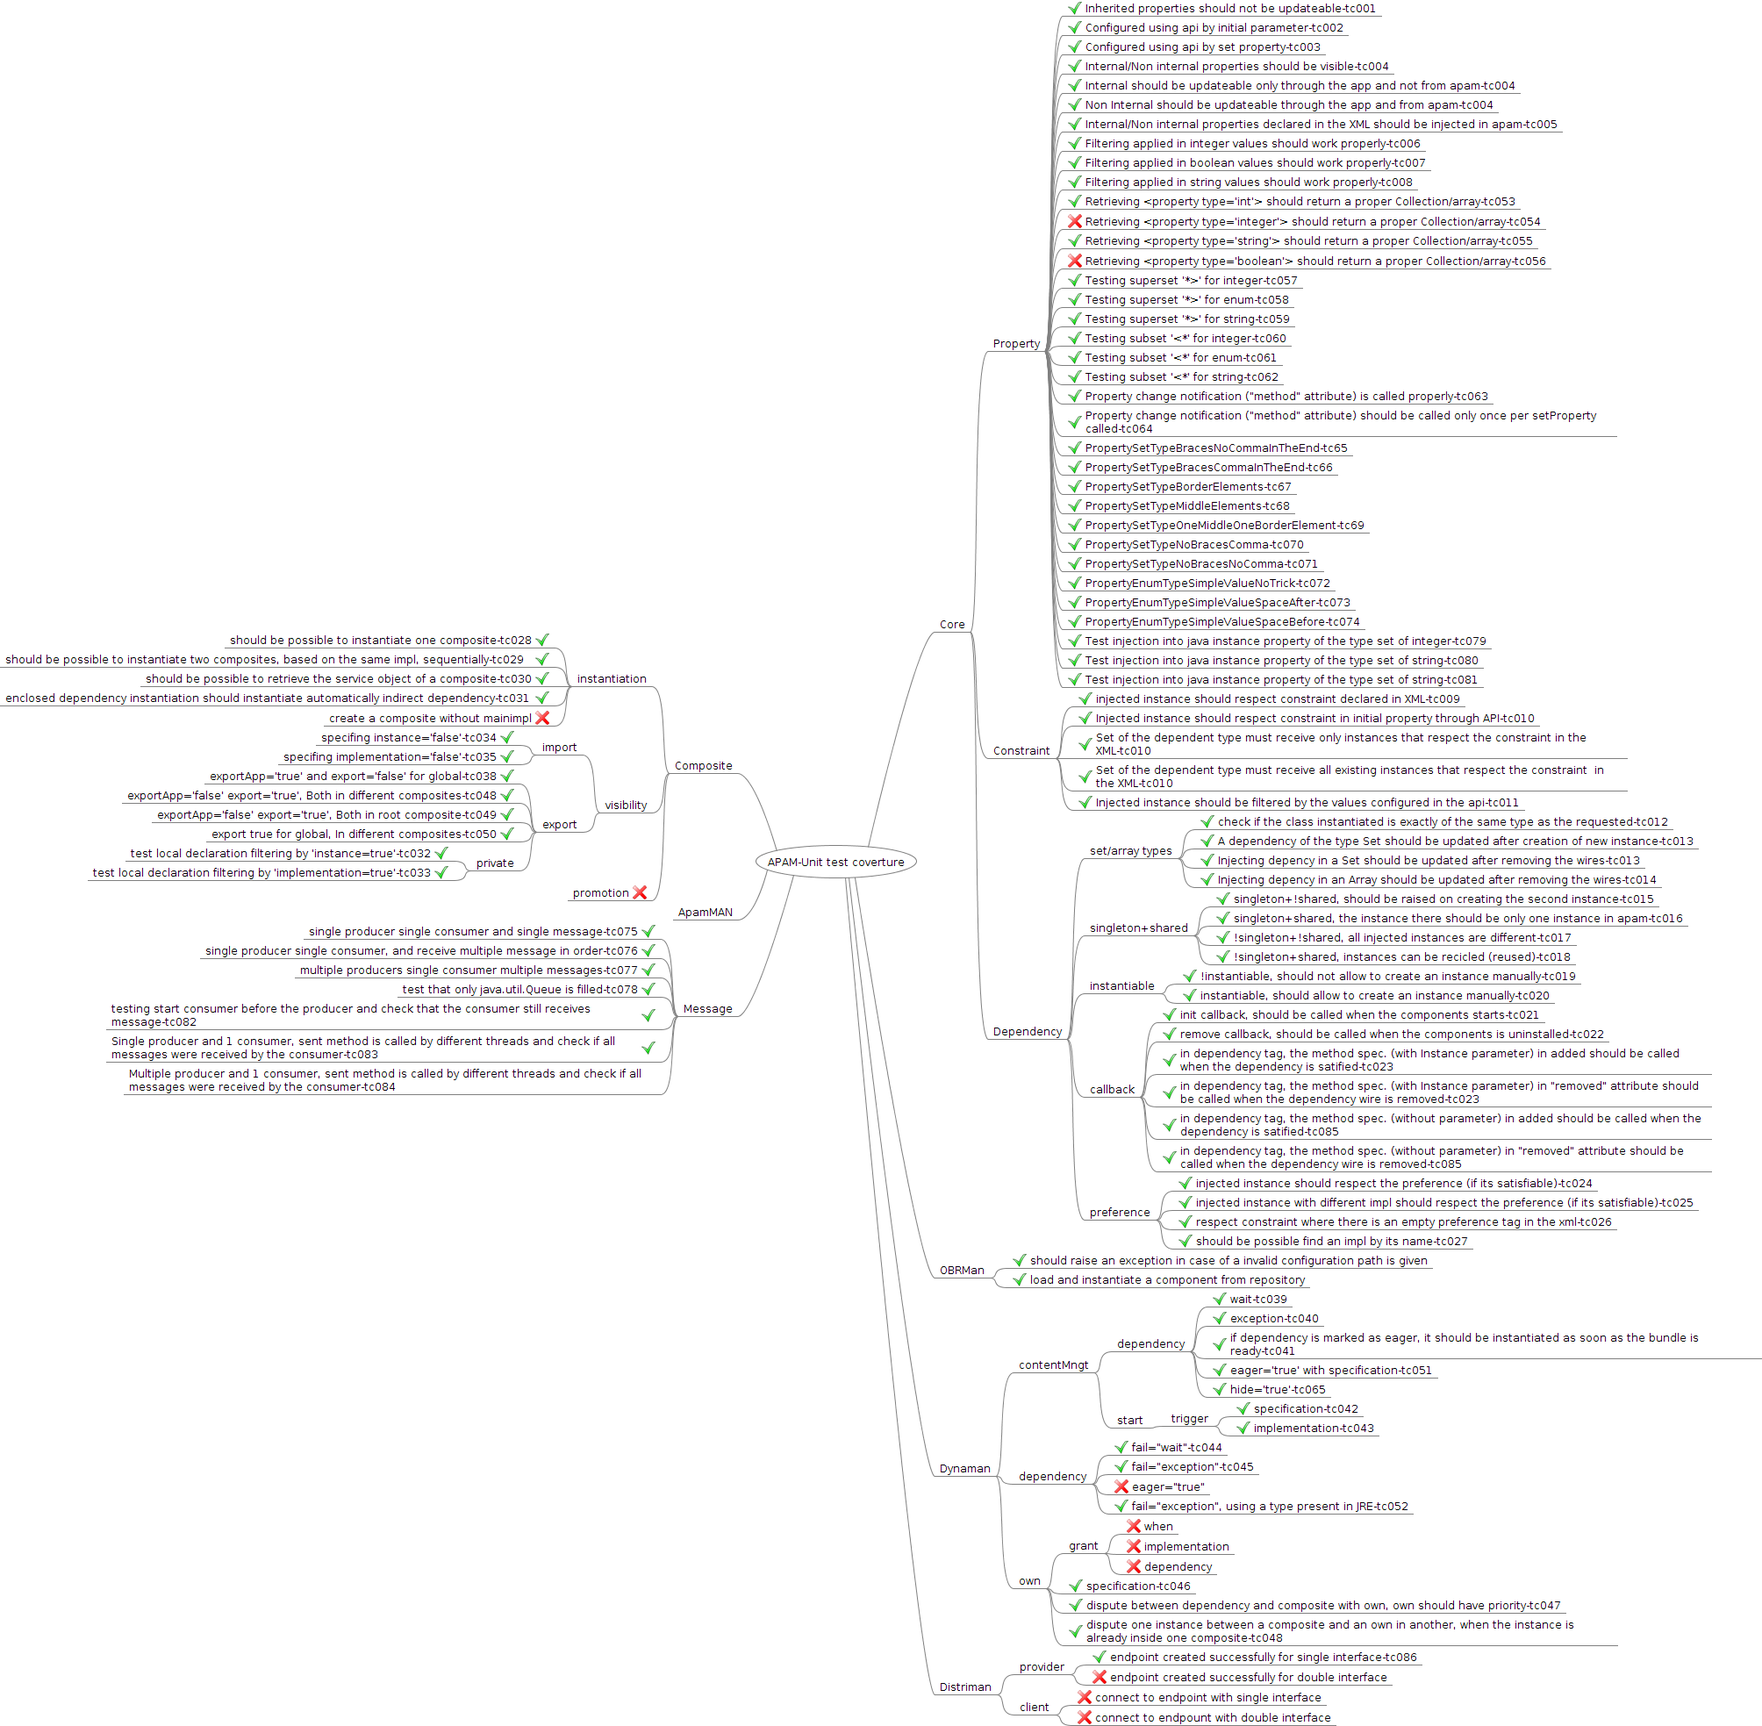
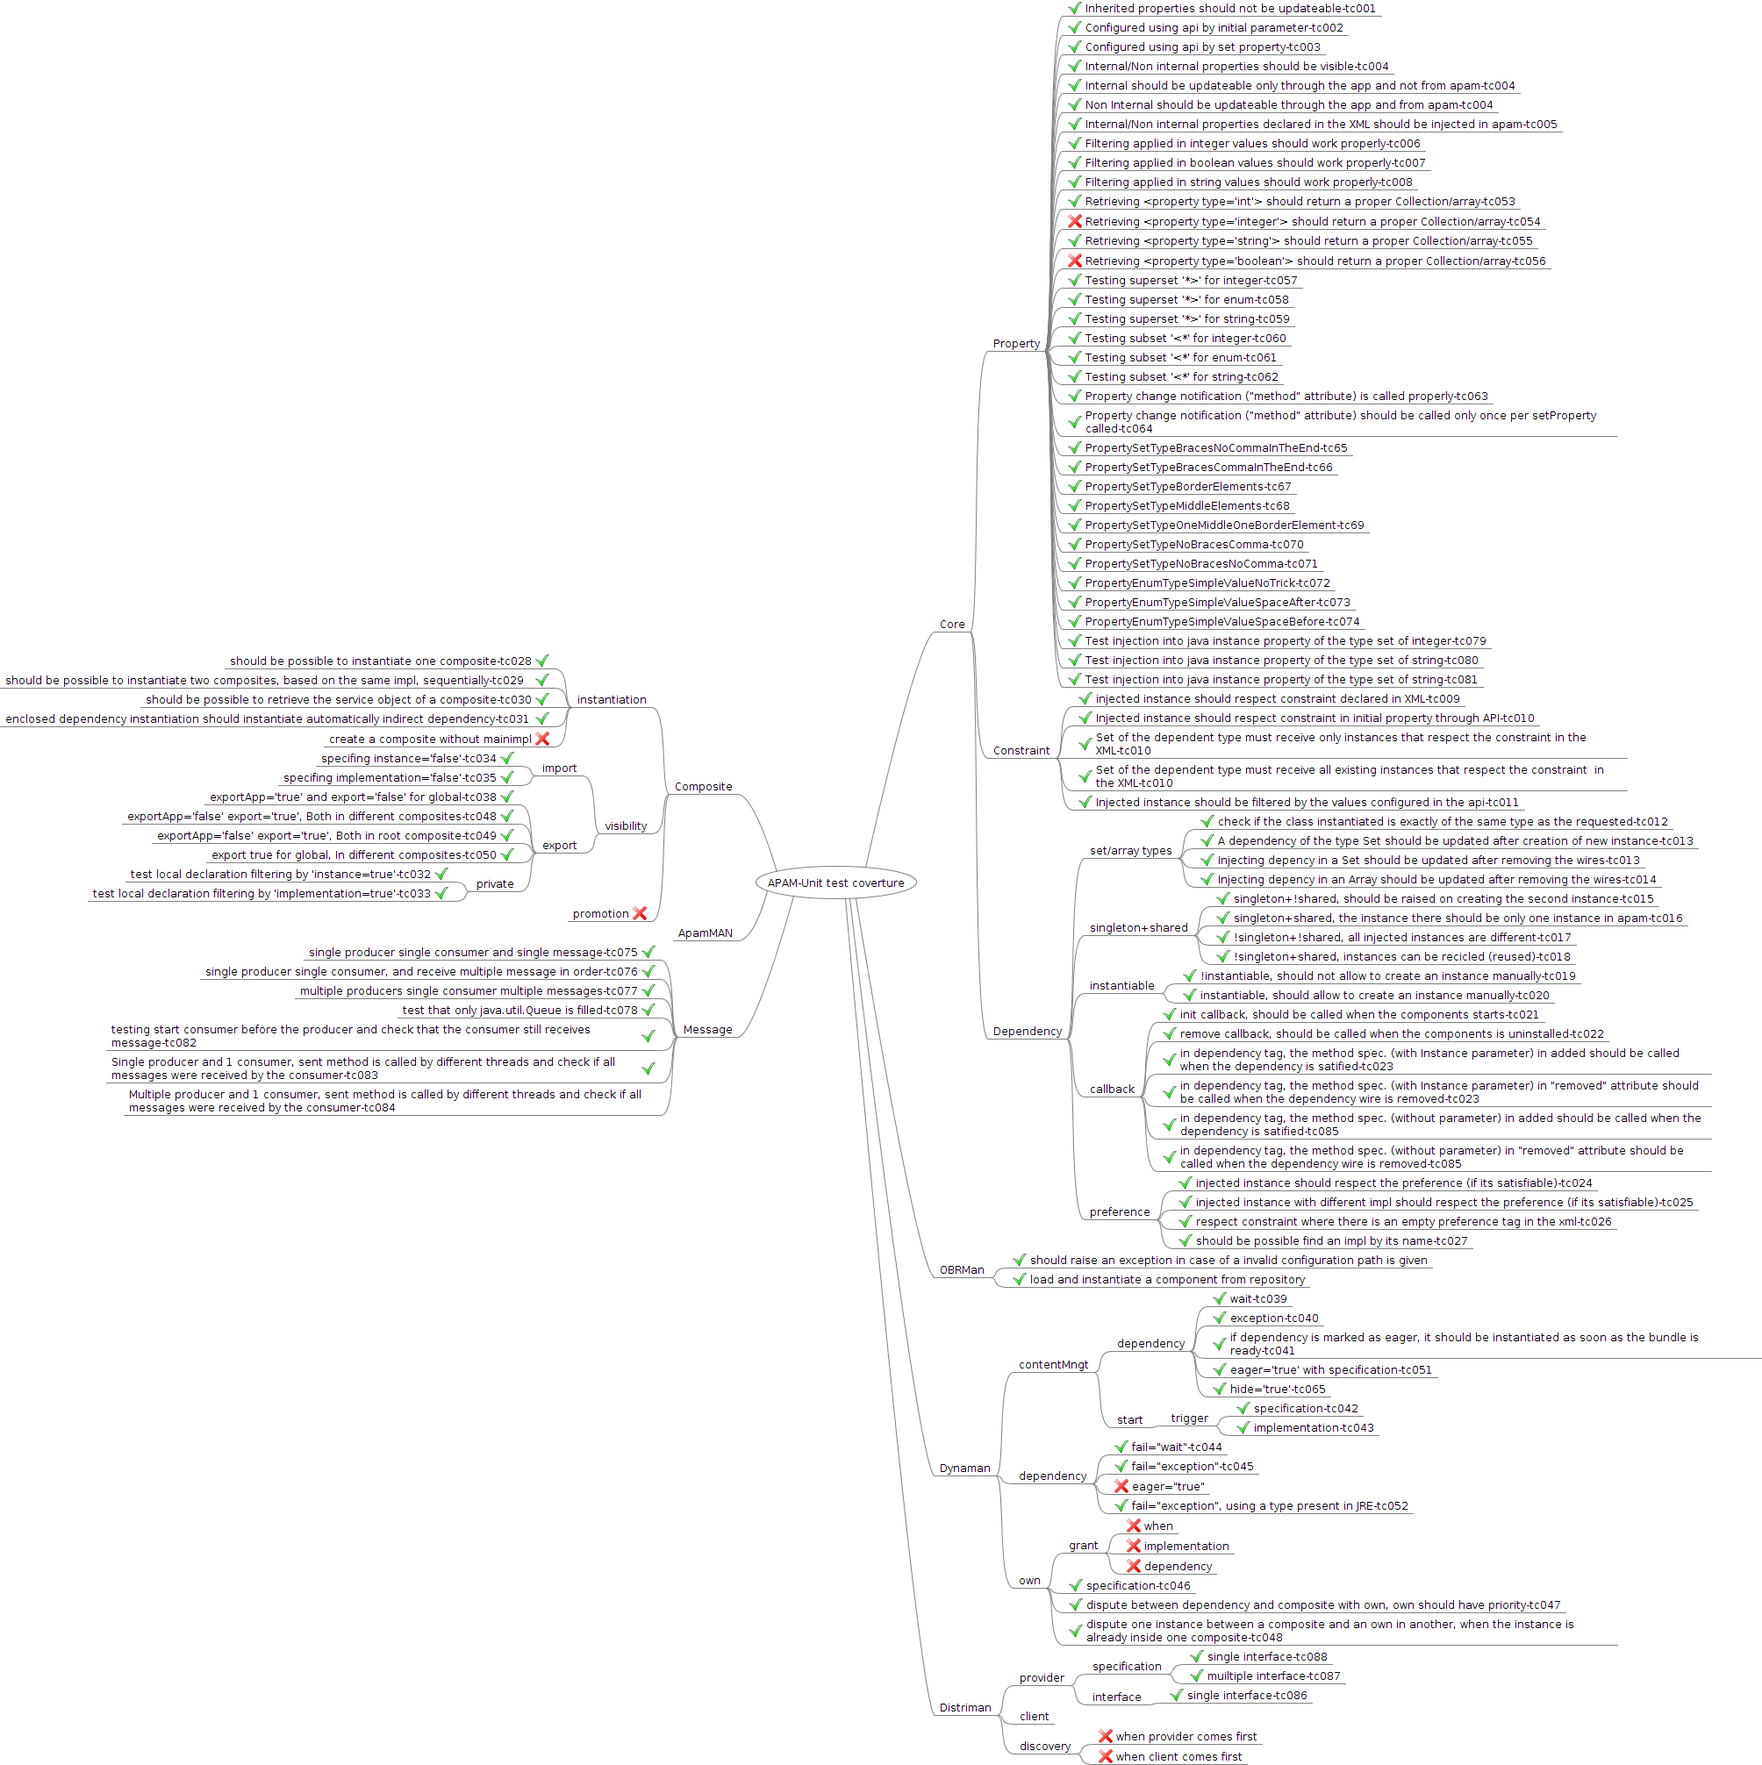
adding tc087,tc088 for distriman

diff --git a/tests/pax-test/src/test/java/fr/imag/adele/apam/test/testcases/DistriManTest.java b/tests/pax-test/src/test/java/fr/imag/adele/apam/test/testcases/DistriManTest.java
@@ -14,12 +14,10 @@
  */
 package fr.imag.adele.apam.test.testcases;
 
-//import static org.ops4j.pax.exam.CoreOptions.bundle;
 import static org.ops4j.pax.exam.CoreOptions.mavenBundle;
 
 import java.io.IOException;
 import java.net.MalformedURLException;
-import java.net.URLDecoder;
 import java.util.HashMap;
 import java.util.List;
 import java.util.Map;
@@ -27,9 +25,6 @@ import java.util.Map;
 import junit.framework.Assert;
 
 import org.apache.cxf.frontend.ClientProxyFactoryBean;
-import org.codehaus.jackson.JsonNode;
-import org.codehaus.jackson.map.ObjectMapper;
-import org.codehaus.jackson.type.TypeReference;
 import org.junit.Test;
 import org.junit.runner.RunWith;
 import org.ops4j.pax.exam.Option;
@@ -56,7 +51,7 @@ public class DistriManTest extends ExtensionAbstract {
 	}
 
 	@Test
-	public void ProviderSingleInterface_tc086() throws MalformedURLException, IOException {
+	public void ProviderDependencyInterface_tc086() throws MalformedURLException, IOException {
 		
 		Implementation p2Impl = CST.apamResolver.findImplByName(null,
 				"P2-singleinterface");
@@ -65,28 +60,22 @@ public class DistriManTest extends ExtensionAbstract {
 		
 		String url="http://127.0.0.1:8080/apam/machine";
 		
-		final String jsonPayload = DistrimanUtil.httpRequestDependency("p2", "fr.imag.adele.apam.pax.distriman.test.iface.P2Spec", "P1", false, url);
+		final String jsonPayload = DistrimanUtil.httpRequestDependency("p2", "itf","fr.imag.adele.apam.pax.distriman.test.iface.P2Spec", "P2-singleinterface", false, url);
 		
 		Map<String, String> parameters=new HashMap<String, String>(){{put("content", jsonPayload);}};
 		
-		String buffer=DistrimanUtil.curl(parameters, url);
-		
-		String response=URLDecoder.decode(buffer.toString(),"UTF-8");
-		
+		String response=DistrimanUtil.curl(parameters, url);
+				
 		System.err.println(response);
 		
-		ObjectMapper om=new ObjectMapper();
-		
-		JsonNode node=om.readValue(response, JsonNode.class);
-		
-		Map<String,String> endpoints=om.convertValue(node.get("endpoint_entry"), new TypeReference<Map<String, String>>() {});
+		Map<String,String> endpoints=DistrimanUtil.endpointGet(response);
 		
 		System.out.println("Class\tURL");
 		for(Map.Entry<String, String> entry:endpoints.entrySet()){
 			System.out.println(String.format("%s\t%s", entry.getKey(),entry.getValue()));
 		}
 		
-		Assert.assertTrue("distriman(provider host) did not create an endpoint after requested",endpoints.size()==1);
+		Assert.assertTrue(String.format("distriman(provider host) did not create an endpoint, or not the right number of endpoints. Expected 1 but %s were provided",endpoints.size()),endpoints.size()==1);
 		
 		try{
 		
@@ -101,5 +90,67 @@ public class DistriManTest extends ExtensionAbstract {
 		}
 		
 	}
+	
+	@Test
+	public void ProviderDependencySpecificationMultipleInterface_tc087() throws MalformedURLException, IOException {
+		
+		Implementation p2Impl = CST.apamResolver.findImplByName(null,
+				"P2-singleinterface");
+
+		Instance p2Inst = p2Impl.createInstance(null, null);
+		
+		String url="http://127.0.0.1:8080/apam/machine";
+		
+		final String jsonPayload = DistrimanUtil.httpRequestDependency("p2", "specification","P2-spec-multipleinterface", "P2", false, url);
+		
+		Map<String, String> parameters=new HashMap<String, String>(){{put("content", jsonPayload);}};
+		
+		String response=DistrimanUtil.curl(parameters, url);
+		
+		System.err.println(response);
+		
+		Map<String,String> endpoints=DistrimanUtil.endpointGet(response); 
+		
+		System.err.println("Class\tURL");
+		for(Map.Entry<String, String> entry:endpoints.entrySet()){
+			System.err.println(String.format("%s\t%s", entry.getKey(),entry.getValue()));
+		}
+		
+		Assert.assertTrue(String.format("distriman(provider host) did not create an endpoint, or not the right number of endpoints. Expected 2 but %s were provided",endpoints.size()),endpoints.size()==2);
+		
+		DistrimanUtil.endpointConnect(endpoints);
+		
+	}
+	
+	@Test
+	public void ProviderDependencySpecificationSingleInterface_tc088() throws MalformedURLException, IOException {
+		
+		Implementation p2Impl = CST.apamResolver.findImplByName(null,
+				"P2-singleinterface");
+
+		Instance p2Inst = p2Impl.createInstance(null, null);
+		
+		String url="http://127.0.0.1:8080/apam/machine";
+		
+		final String jsonPayload = DistrimanUtil.httpRequestDependency("p2", "specification","P2-spec-singleinterface", "P2", false, url);
+		
+		Map<String, String> parameters=new HashMap<String, String>(){{put("content", jsonPayload);}};
+		
+		String response=DistrimanUtil.curl(parameters, url);
+		
+		System.err.println(response);
+		
+		Map<String,String> endpoints=DistrimanUtil.endpointGet(response);
+		
+		System.err.println("Class\tURL");
+		for(Map.Entry<String, String> entry:endpoints.entrySet()){
+			System.err.println(String.format("%s\t%s", entry.getKey(),entry.getValue()));
+		}
+		
+		Assert.assertTrue(String.format("distriman(provider host) did not create an endpoint, or not the right number of endpoints. Expected 1 but %s were provided",endpoints.size()),endpoints.size()==1);
+		
+		DistrimanUtil.endpointConnect(endpoints);
+		
+	}	
 
 }

diff --git a/runtime/managers/distriman/src/main/java/fr/imag/adele/apam/distriman/dto/RemoteDependency.java b/runtime/managers/distriman/src/main/java/fr/imag/adele/apam/distriman/dto/RemoteDependency.java
@@ -24,6 +24,7 @@ import fr.imag.adele.apam.declarations.InstanceReference;
 import fr.imag.adele.apam.declarations.InterfaceReference;
 import fr.imag.adele.apam.declarations.MessageReference;
 import fr.imag.adele.apam.declarations.ResolvableReference;
+import fr.imag.adele.apam.declarations.SpecificationReference;
 
 /**
  * The RemoteDependency is a DependencyDeclaration that aims to be resolved by a RemoteMachine.
@@ -48,13 +49,13 @@ public class RemoteDependency extends DependencyDeclaration {
 
     private static final String JSON_COMP_CONSTRAINT = "comp_cons";
     private static final String JSON_COMP_PREF = "comp_pref";
-    private static final String JSON_CLIENT_URL = "client_url";
+    public static final String JSON_CLIENT_URL = "client_url";
     
-    private String client_url;
+    private String clientURL;
 
     public RemoteDependency(ComponentReference<?> component, String id, boolean isMultiple, ResolvableReference resource,String client) {
         super(component, id, isMultiple, resource);
-        this.client_url=client;
+        this.clientURL=client;
     }
 
     /**
@@ -63,7 +64,7 @@ public class RemoteDependency extends DependencyDeclaration {
      */
     public RemoteDependency(DependencyDeclaration dep,String client) {
         super(dep.getComponent(), dep.getIdentifier(), dep.isMultiple(), dep.getTarget());
-        this.client_url=client;
+        this.clientURL=client;
     }
 
     public ObjectNode toJson() {
@@ -82,7 +83,7 @@ public class RemoteDependency extends DependencyDeclaration {
         json.put(JSON_ID,getIdentifier());
         json.put(JSON_IS_MULTIPLE,isMultiple());
         json.put(JSON_COMP_REF_NAME,getComponent().getName());
-        json.put(JSON_CLIENT_URL,client_url);
+        json.put(JSON_CLIENT_URL,clientURL);
         
         ObjectNode json_rr=om.createObjectNode();
         
@@ -135,7 +136,7 @@ public class RemoteDependency extends DependencyDeclaration {
         //Get the ResolvableReference name
         String rr_name = rr_json.get(JSON_RESOLVABLE_REF_NAME).asText();
 
-        String client_url=json.get(JSON_CLIENT_URL).asText();
+        String clientURL=json.get(JSON_CLIENT_URL).asText();
 
         ResolvableReference  rr = null;
         // Create the ResolvableReference according to its type.
@@ -149,6 +150,10 @@ public class RemoteDependency extends DependencyDeclaration {
             case message:
                 rr = new MessageReference(rr_name);
             break;
+            case specification:
+                rr = new SpecificationReference(rr_name);
+                
+            break;
         }
 
         //Get constraints and prefs
@@ -159,7 +164,7 @@ public class RemoteDependency extends DependencyDeclaration {
 //        JSONArray comppref = json.getJSONArray(JSON_COMP_PREF);
 
 
-        RemoteDependency rdep = new  RemoteDependency(compref,id,multiple,rr,client_url);
+        RemoteDependency rdep = new  RemoteDependency(compref,id,multiple,rr,clientURL);
 
         //rdep.getInstanceConstraints().addAll(fromArray(instconst));
         //rdep.getInstancePreferences().addAll(fromArray(instpref));
@@ -169,22 +174,20 @@ public class RemoteDependency extends DependencyDeclaration {
        return rdep;
     }
 
-
-//    private static Collection<String> fromArray(JSONArray array) throws JSONException{
-//        Collection<String> collec = new ArrayList<String>(array.length());
-//        for(int i =0;i<array.length();i++){
-//            collec.add(array.getString(i));
-//        }
-//        return collec;
-//    }
-
     /**
      * ResolvableReference type.
      */
     private enum RRTYPE {
         instance,
         message,
-        itf//interface
+        itf,
+        specification//interface
         //TODO support Spec et implem ?
     }
+
+	public String getClientURL() {
+		return clientURL;
+	}
+    
+    
 }

diff --git a/tests/pax-test/src/test/java/fr/imag/adele/apam/test/support/distriman/DistrimanUtil.java b/tests/pax-test/src/test/java/fr/imag/adele/apam/test/support/distriman/DistrimanUtil.java
@@ -7,12 +7,25 @@ import java.io.PrintWriter;
 import java.net.HttpURLConnection;
 import java.net.MalformedURLException;
 import java.net.URL;
+import java.net.URLDecoder;
 import java.net.URLEncoder;
 import java.util.Map;
 
+import junit.framework.Assert;
+
+import org.apache.cxf.binding.BindingConfiguration;
+import org.apache.cxf.frontend.ClientProxyFactoryBean;
+import org.codehaus.jackson.JsonNode;
+import org.codehaus.jackson.JsonParseException;
+import org.codehaus.jackson.map.JsonMappingException;
+import org.codehaus.jackson.map.ObjectMapper;
+import org.codehaus.jackson.type.TypeReference;
+
+import fr.imag.adele.apam.pax.distriman.test.iface.P2Spec;
+
 public class DistrimanUtil {
 
-	public static String httpRequestDependency(String id, String clazz,
+	public static String httpRequestDependency(String id, String type, String clazz,
 			String variable, boolean isMultiple, String clientUrl) {
 
 		StringBuffer payload = new StringBuffer();
@@ -22,7 +35,7 @@ public class DistrimanUtil {
 		payload.append("{");
 		payload.append(String.format("\"id\":\"%s\",", id));
 		payload.append(String.format(
-				"\"rref\": {\"name\":\"%s\",\"type\":\"itf\"},", clazz));
+				"\"rref\": {\"name\":\"%s\",\"type\":\"%s\"},", clazz,type));
 		payload.append(String.format("\"component_name\":\"%s\",", variable));
 		payload.append(String.format("\"is_multiple\":\"%s\",", isMultiple));
 		payload.append(String.format("\"client_url\":\"%s\"", clientUrl));
@@ -100,8 +113,47 @@ public class DistrimanUtil {
 			sb.append(line);
 		}
 
-		return sb.toString();
+		return URLDecoder.decode(sb.toString(),"UTF-8");
 
+	}
+	
+	public static void endpointConnect(Map<String, String> endpoints) {
+
+		for (Map.Entry<String, String> entry : endpoints.entrySet()) {
+
+			try {
+
+				ClientProxyFactoryBean factory = new ClientProxyFactoryBean();
+				factory.setServiceClass(Class.forName(entry.getKey()));
+				factory.setAddress(entry.getValue());
+				
+				Object proxy = (Object) factory.create();
+				System.err.println(proxy.toString());
+
+			} catch (Exception e) {
+				Assert.fail(String
+						.format("distriman(provider host) created an endpoint but was not possible to connect to it, failed with the message %s",
+								e.getMessage()));
+			}
+
+		}
+
+	}
+	
+	public static Map<String,String> endpointGet(String jsonstring) throws JsonParseException, JsonMappingException, IOException{
+		
+		ObjectMapper om=new ObjectMapper();
+		
+		JsonNode node=om.readValue(jsonstring, JsonNode.class);
+		
+		Map<String,String> endpoints=om.convertValue(node.get("endpoint_entry"), new TypeReference<Map<String, String>>() {});
+		
+		System.err.println("Class\tURL");
+		for(Map.Entry<String, String> entry:endpoints.entrySet()){
+			System.err.println(String.format("%s\t%s", entry.getKey(),entry.getValue()));
+		}
+		
+		return endpoints;
 	}
 
 }

diff --git a/documentations/technical/test-coverture/APAM-UnitTest-Coverture-OnFreeMindApp.mm b/documentations/technical/test-coverture/APAM-UnitTest-Coverture-OnFreeMindApp.mm
@@ -352,18 +352,26 @@
 </node>
 <node CREATED="1363857826607" ID="ID_1640179078" MODIFIED="1363857829987" POSITION="right" TEXT="Distriman">
 <node CREATED="1363857837529" ID="ID_1570620168" MODIFIED="1363857853886" TEXT="provider">
-<node CREATED="1363857859111" ID="ID_270493680" MODIFIED="1363871107262" TEXT="endpoint created successfully for single interface-tc086">
+<node CREATED="1364310717890" ID="ID_38617618" MODIFIED="1364310720953" TEXT="specification">
+<node CREATED="1364310721738" ID="ID_585579850" MODIFIED="1364310790656" TEXT="single interface-tc088">
 <icon BUILTIN="button_ok"/>
 </node>
-<node CREATED="1363857880951" ID="ID_1679469096" MODIFIED="1363871111942" TEXT="endpoint created successfully for double interface">
+<node CREATED="1364310726554" ID="ID_1460454191" MODIFIED="1364310790655" TEXT="muiltiple interface-tc087">
+<icon BUILTIN="button_ok"/>
+</node>
+</node>
+<node CREATED="1364310734666" ID="ID_701186650" MODIFIED="1364310736264" TEXT="interface">
+<node CREATED="1364310737018" ID="ID_1927880532" MODIFIED="1364310795118" TEXT="single interface-tc086">
+<icon BUILTIN="button_ok"/>
+</node>
+</node>
+</node>
+<node CREATED="1363857854951" ID="ID_1091851122" MODIFIED="1363857856239" TEXT="client"/>
+<node CREATED="1364310867642" ID="ID_482930953" MODIFIED="1364310871011" TEXT="discovery">
+<node CREATED="1364310872186" ID="ID_144151846" MODIFIED="1364310893951" TEXT="when provider comes first">
 <icon BUILTIN="button_cancel"/>
 </node>
-</node>
-<node CREATED="1363857854951" ID="ID_1091851122" MODIFIED="1363857856239" TEXT="client">
-<node CREATED="1363857985943" ID="ID_700358792" MODIFIED="1363871111942" TEXT="connect to endpoint with single interface">
-<icon BUILTIN="button_cancel"/>
-</node>
-<node CREATED="1363858002423" ID="ID_768692601" MODIFIED="1363871111941" TEXT="connect to endpount with double interface">
+<node CREATED="1364310880490" ID="ID_1578155757" MODIFIED="1364310893950" TEXT="when client comes first">
 <icon BUILTIN="button_cancel"/>
 </node>
 </node>

diff --git a/runtime/managers/distriman/src/main/java/fr/imag/adele/apam/distriman/provider/LocalMachine.java b/runtime/managers/distriman/src/main/java/fr/imag/adele/apam/distriman/provider/LocalMachine.java
@@ -136,7 +136,7 @@ public enum LocalMachine {
 	 * dependency thanks to this machine.
 	 */
 	private class MyServlet extends HttpServlet {
-		private static final String CLIENT_URL = "client_url";
+	
 		private final DependencyManager apamMan;
 
 		private MyServlet() {
@@ -165,16 +165,13 @@ public enum LocalMachine {
 				
 				JsonNode requestJson=om.readValue(content, JsonNode.class);
 				
-				
-				
 				RemoteDependency remoteDependency = RemoteDependency.fromJson(requestJson);
-				String remoteUrl = requestJson.get(CLIENT_URL).asText();
 				String identifier = remoteDependency.getIdentifier();
 				
-				logger.info("requesting resolution of the identifier {} in the address {}",identifier,remoteUrl);
+				logger.info("requesting resolution of the identifier {} in the address {}",identifier,remoteDependency.getClientURL());
 				
 				EndpointRegistration reg = distriman.resolveDependencyLocalMachine(
-						remoteDependency, remoteUrl);
+						remoteDependency, remoteDependency.getClientURL());
 				
 				String jsonString=toJson(reg);
 				
